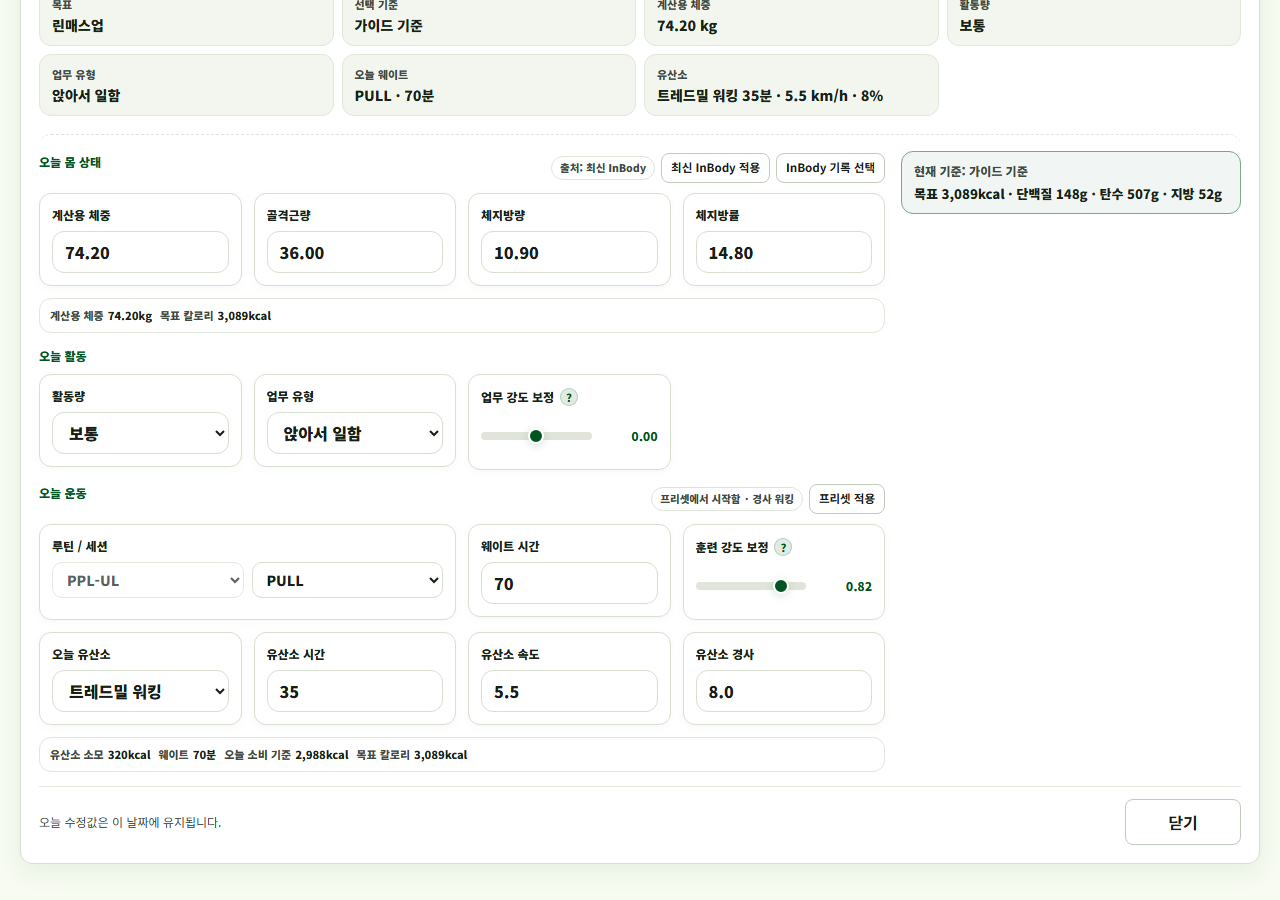
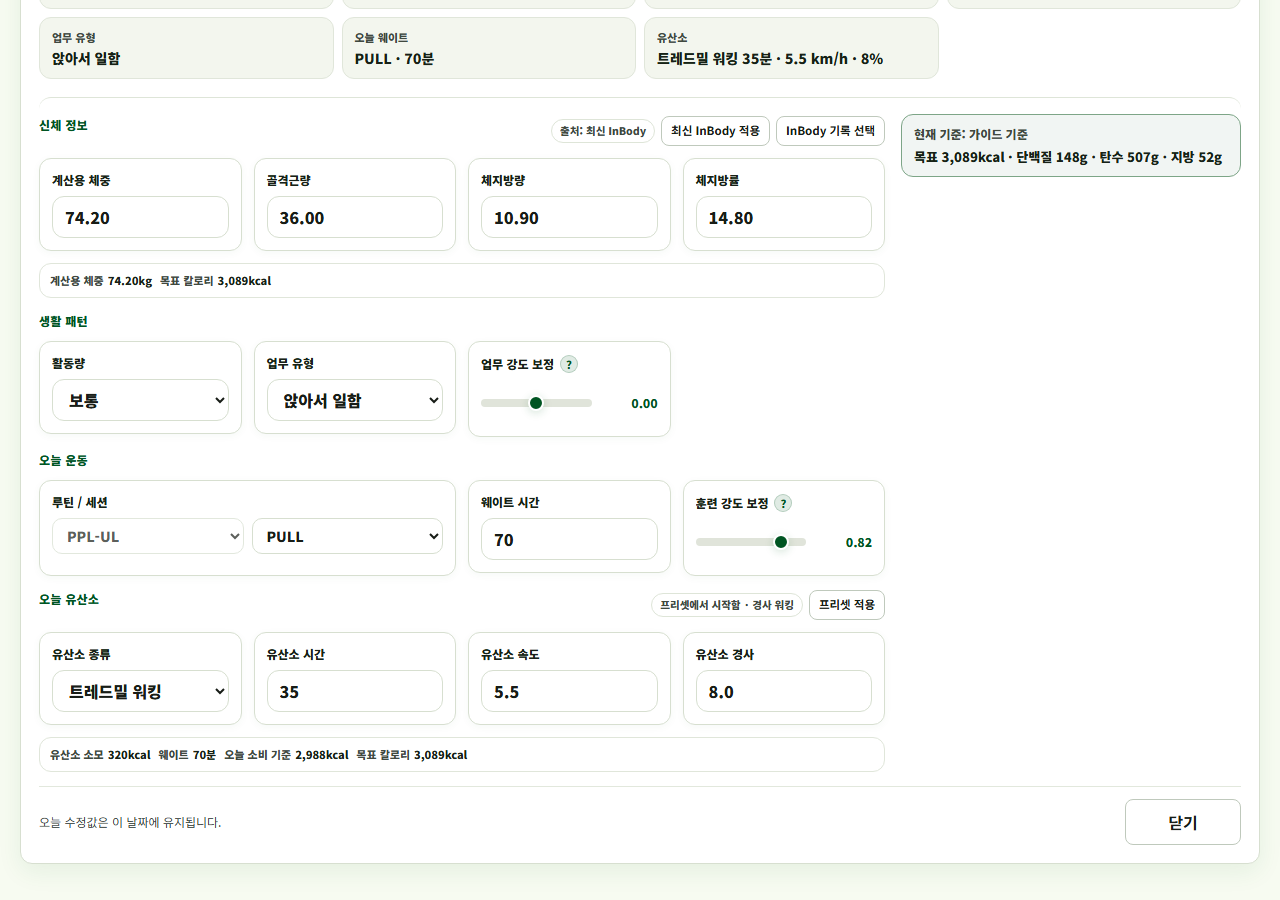
ui: v7.3 Today 설정값 패널 리듬 보강

diff --git a/index.html b/index.html
@@ -1,8 +1,11 @@
 <!--
 Version: 7.3
-Stage: v7.3-G InBody desktop history rail Shell 보강
+Stage: v7.3-H Today settings panel Stitch section rhythm 보강
 Date: 2026-05-24
 Notes:
+- v7.3-H Today 계산값 펼침 패널을 003 Stitch의 "오늘의 설정 값" 흐름에 맞춰 신체 정보 / 생활 패턴 / 오늘 운동 / 오늘 유산소 섹션으로 정리
+- v7.3-H Today Quick Edit DOM id / event handler / 저장 구조 / 산식은 유지하고 visual hierarchy와 섹션 리듬만 보강
+- v7.3-H 산식 / score / Coach / recentContext / InBody gate / dual basis / schema-import-export 변경 없음
 - v7.3-G InBody desktop에서 003 Stitch처럼 측정 히스토리 레일을 왼쪽에 두고 최신 결과 / 변화 / 입력을 오른쪽 작업 흐름으로 재배치
 - v7.3-G InBody 모바일은 최신 결과 우선 흐름을 유지하고 기록/수정/Today 적용 로직은 변경 없음
 - v7.3-G 산식 / score / Coach / recentContext / InBody gate / dual basis / schema-import-export 변경 없음
@@ -1560,7 +1563,7 @@ Notes:
       align-items:start;
       row-gap:14px;
       padding-top:16px;
-      border-top:1px dashed color-mix(in srgb, var(--line) 82%, transparent);
+      border-top:1px solid color-mix(in srgb, var(--line) 82%, transparent);
     }
     .today-quick-edit-panel.hidden{
       display:none;
@@ -1576,10 +1579,11 @@ Notes:
     .today-quick-edit-section-title,
     .today-section-title{
       grid-column:1 / -1;
-      margin:2px 0 -2px;
+      margin:2px 0 0;
       font-size:12px;
       font-weight:900;
       color:var(--teal);
+      letter-spacing:.02em;
     }
     .today-quick-edit-section-head,
     .today-section-head{
@@ -1588,7 +1592,7 @@ Notes:
       align-items:flex-start;
       justify-content:space-between;
       gap:8px 10px;
-      margin:2px 0 -2px;
+      margin:2px 0 0;
       min-width:0;
       flex-wrap:wrap;
     }
@@ -12425,8 +12429,8 @@ Notes:
         <div class="today-calc-settings-head">
           <div class="today-calc-settings-copy">
             <h3>Today</h3>
-            <h2>오늘 계산값</h2>
-            <p>오늘 계산에 쓰는 값입니다.</p>
+            <h2>오늘의 설정 값</h2>
+            <p>몸 상태와 활동을 보며 오늘 계산 기준을 조정합니다.</p>
           </div>
           <div class="today-calc-settings-actions">
             <button class="secondary-btn" id="todayQuickEditToggle" type="button" aria-expanded="true" aria-controls="todayQuickEditPanel">접기</button>
@@ -12437,7 +12441,7 @@ Notes:
         <div class="today-quick-edit-panel" id="todayQuickEditPanel" aria-hidden="false">
           <div class="today-quick-edit-fields">
             <div class="today-quick-edit-section-head today-section-head today-body-status-head">
-              <div class="today-quick-edit-section-title today-section-title">오늘 몸 상태</div>
+              <div class="today-quick-edit-section-title today-section-title">신체 정보</div>
               <div class="today-inbody-fill-actions today-section-actions">
                 <span class="today-inbody-source-note today-status-chip hidden" id="todayInbodySourceNote">출처: 최신 InBody</span>
                 <button class="secondary-btn" id="todayLoadLatestInbodyBtn" type="button">최신 InBody 적용</button>
@@ -12461,7 +12465,7 @@ Notes:
               <input id="todayQuickBodyFat" type="number" min="1" max="75" step="0.1" inputmode="decimal">
             </div>
             <div class="today-proximity-summary body-status-summary" id="todayBodyResultSummary" aria-live="polite"></div>
-            <div class="today-quick-edit-section-title today-section-title">오늘 활동</div>
+            <div class="today-quick-edit-section-title today-section-title">생활 패턴</div>
             <div class="field">
               <label for="todayQuickActivityLevel">활동량</label>
               <select id="todayQuickActivityLevel">
@@ -12482,13 +12486,7 @@ Notes:
               </select>
             </div>
             <div class="today-quick-field-host" id="todayQuickWorkAdjHost"></div>
-            <div class="today-quick-edit-section-head today-section-head today-cardio-preset-head">
-              <div class="today-quick-edit-section-title today-section-title">오늘 운동</div>
-              <div class="today-cardio-preset-actions today-section-actions">
-                <span class="today-cardio-source-note today-status-chip hidden" id="todayCardioSourceNote"></span>
-                <button class="secondary-btn" id="todayApplyCardioPresetBtn" type="button">프리셋 적용</button>
-              </div>
-            </div>
+            <div class="today-quick-edit-section-title today-section-title">오늘 운동</div>
             <div class="field today-quick-routine-card">
               <label for="todayQuickRoutinePlan">루틴 / 세션</label>
               <div class="today-quick-routine-selects">
@@ -12513,8 +12511,15 @@ Notes:
                 <output id="todayQuickIntensityOut">0.80</output>
               </div>
             </div>
+            <div class="today-quick-edit-section-head today-section-head today-cardio-preset-head">
+              <div class="today-quick-edit-section-title today-section-title">오늘 유산소</div>
+              <div class="today-cardio-preset-actions today-section-actions">
+                <span class="today-cardio-source-note today-status-chip hidden" id="todayCardioSourceNote"></span>
+                <button class="secondary-btn" id="todayApplyCardioPresetBtn" type="button">프리셋 적용</button>
+              </div>
+            </div>
             <div class="field">
-              <label for="todayQuickCardioType">오늘 유산소</label>
+              <label for="todayQuickCardioType">유산소 종류</label>
               <select id="todayQuickCardioType">
                 <option value="treadmill_walk">트레드밀 워킹</option>
                 <option value="treadmill_run">트레드밀 러닝</option>
@@ -38144,7 +38149,7 @@ Notes:
         results.push(runNamedTest("C4.7-B2 Today main cards render with shorter copy", () => {
           renderValidToday();
           const text = todayText();
-          assertIncludesAll(text, ["오늘 목표 섭취량", "오늘 계산값", "오늘 계산에 쓰는 값입니다.", "오늘 몸 상태", "오늘 활동", "오늘 운동"], "Today should keep main card labels and short calculation copy");
+          assertIncludesAll(text, ["오늘 목표 섭취량", "오늘의 설정 값", "몸 상태와 활동을 보며 오늘 계산 기준을 조정합니다.", "신체 정보", "생활 패턴", "오늘 운동", "오늘 유산소"], "Today should keep main card labels and short calculation copy");
           assertExcludesAll(text, ["오늘 먹을 양을 계산하는 값입니다.", "처음에는 위 결과만 보면 됩니다"], "Today should remove longer repeated explanation copy");
         }));
 
@@ -39396,7 +39401,7 @@ Notes:
           const button = document.getElementById("todayCalcSettingsBtn");
           const topButton = document.getElementById("todaySettingsBtn");
           assertTest(!!card && !!button && !!topButton, "Today calculation settings CTAs should exist");
-          assertIncludesAll(card.textContent || "", ["오늘 계산값", "전체 설정"], "Today should show calculation value card");
+          assertIncludesAll(card.textContent || "", ["오늘의 설정 값", "전체 설정"], "Today should show calculation value card");
           assertTest(getComputedStyle(topButton).display !== "none", "top calculation settings button should show on Today");
         }));
 
@@ -39745,7 +39750,7 @@ Notes:
           const quickButton = document.getElementById("todayQuickEditToggle");
           const settingsButton = document.getElementById("todayCalcSettingsBtn");
           assertTest(!!card && !!summary && !!quickButton && !!settingsButton, "Today quick edit card should render");
-          assertIncludesAll(card.textContent || "", ["오늘 계산값", "전체 설정", "오늘 몸 상태", "오늘 활동", "오늘 운동", "계산용 체중", "골격근량", "체지방량", "체지방률", "활동량", "업무 유형", "웨이트 시간", "오늘 유산소"], "Today calculation card should expose the required user-facing labels");
+          assertIncludesAll(card.textContent || "", ["오늘의 설정 값", "전체 설정", "신체 정보", "생활 패턴", "오늘 운동", "오늘 유산소", "계산용 체중", "골격근량", "체지방량", "체지방률", "활동량", "업무 유형", "웨이트 시간", "유산소 종류"], "Today calculation card should expose the required user-facing labels");
         }));
 
         results.push(runNamedTest("C2 quick edit panel opens and closes", () => {
@@ -39810,7 +39815,7 @@ Notes:
             let panel = document.getElementById("todayQuickEditPanel");
             assertTest(!!panel && !panel.classList.contains("hidden"), `${id} one-digit input should not collapse the Today calculation panel`);
             assertTest(document.getElementById("todayQuickEditToggle")?.getAttribute("aria-expanded") === "true", `${id} one-digit input should keep expanded state`);
-            assertTest(document.getElementById("todayCalcSettingsCard")?.textContent.includes("오늘 계산값"), `${id} should keep Today calculation card visible after input`);
+            assertTest(document.getElementById("todayCalcSettingsCard")?.textContent.includes("오늘의 설정 값"), `${id} should keep Today calculation card visible after input`);
             input.dispatchEvent(new Event("change", { bubbles: true }));
             panel = document.getElementById("todayQuickEditPanel");
             assertTest(!!panel && !panel.classList.contains("hidden"), `${id} change event should not collapse the Today calculation panel`);